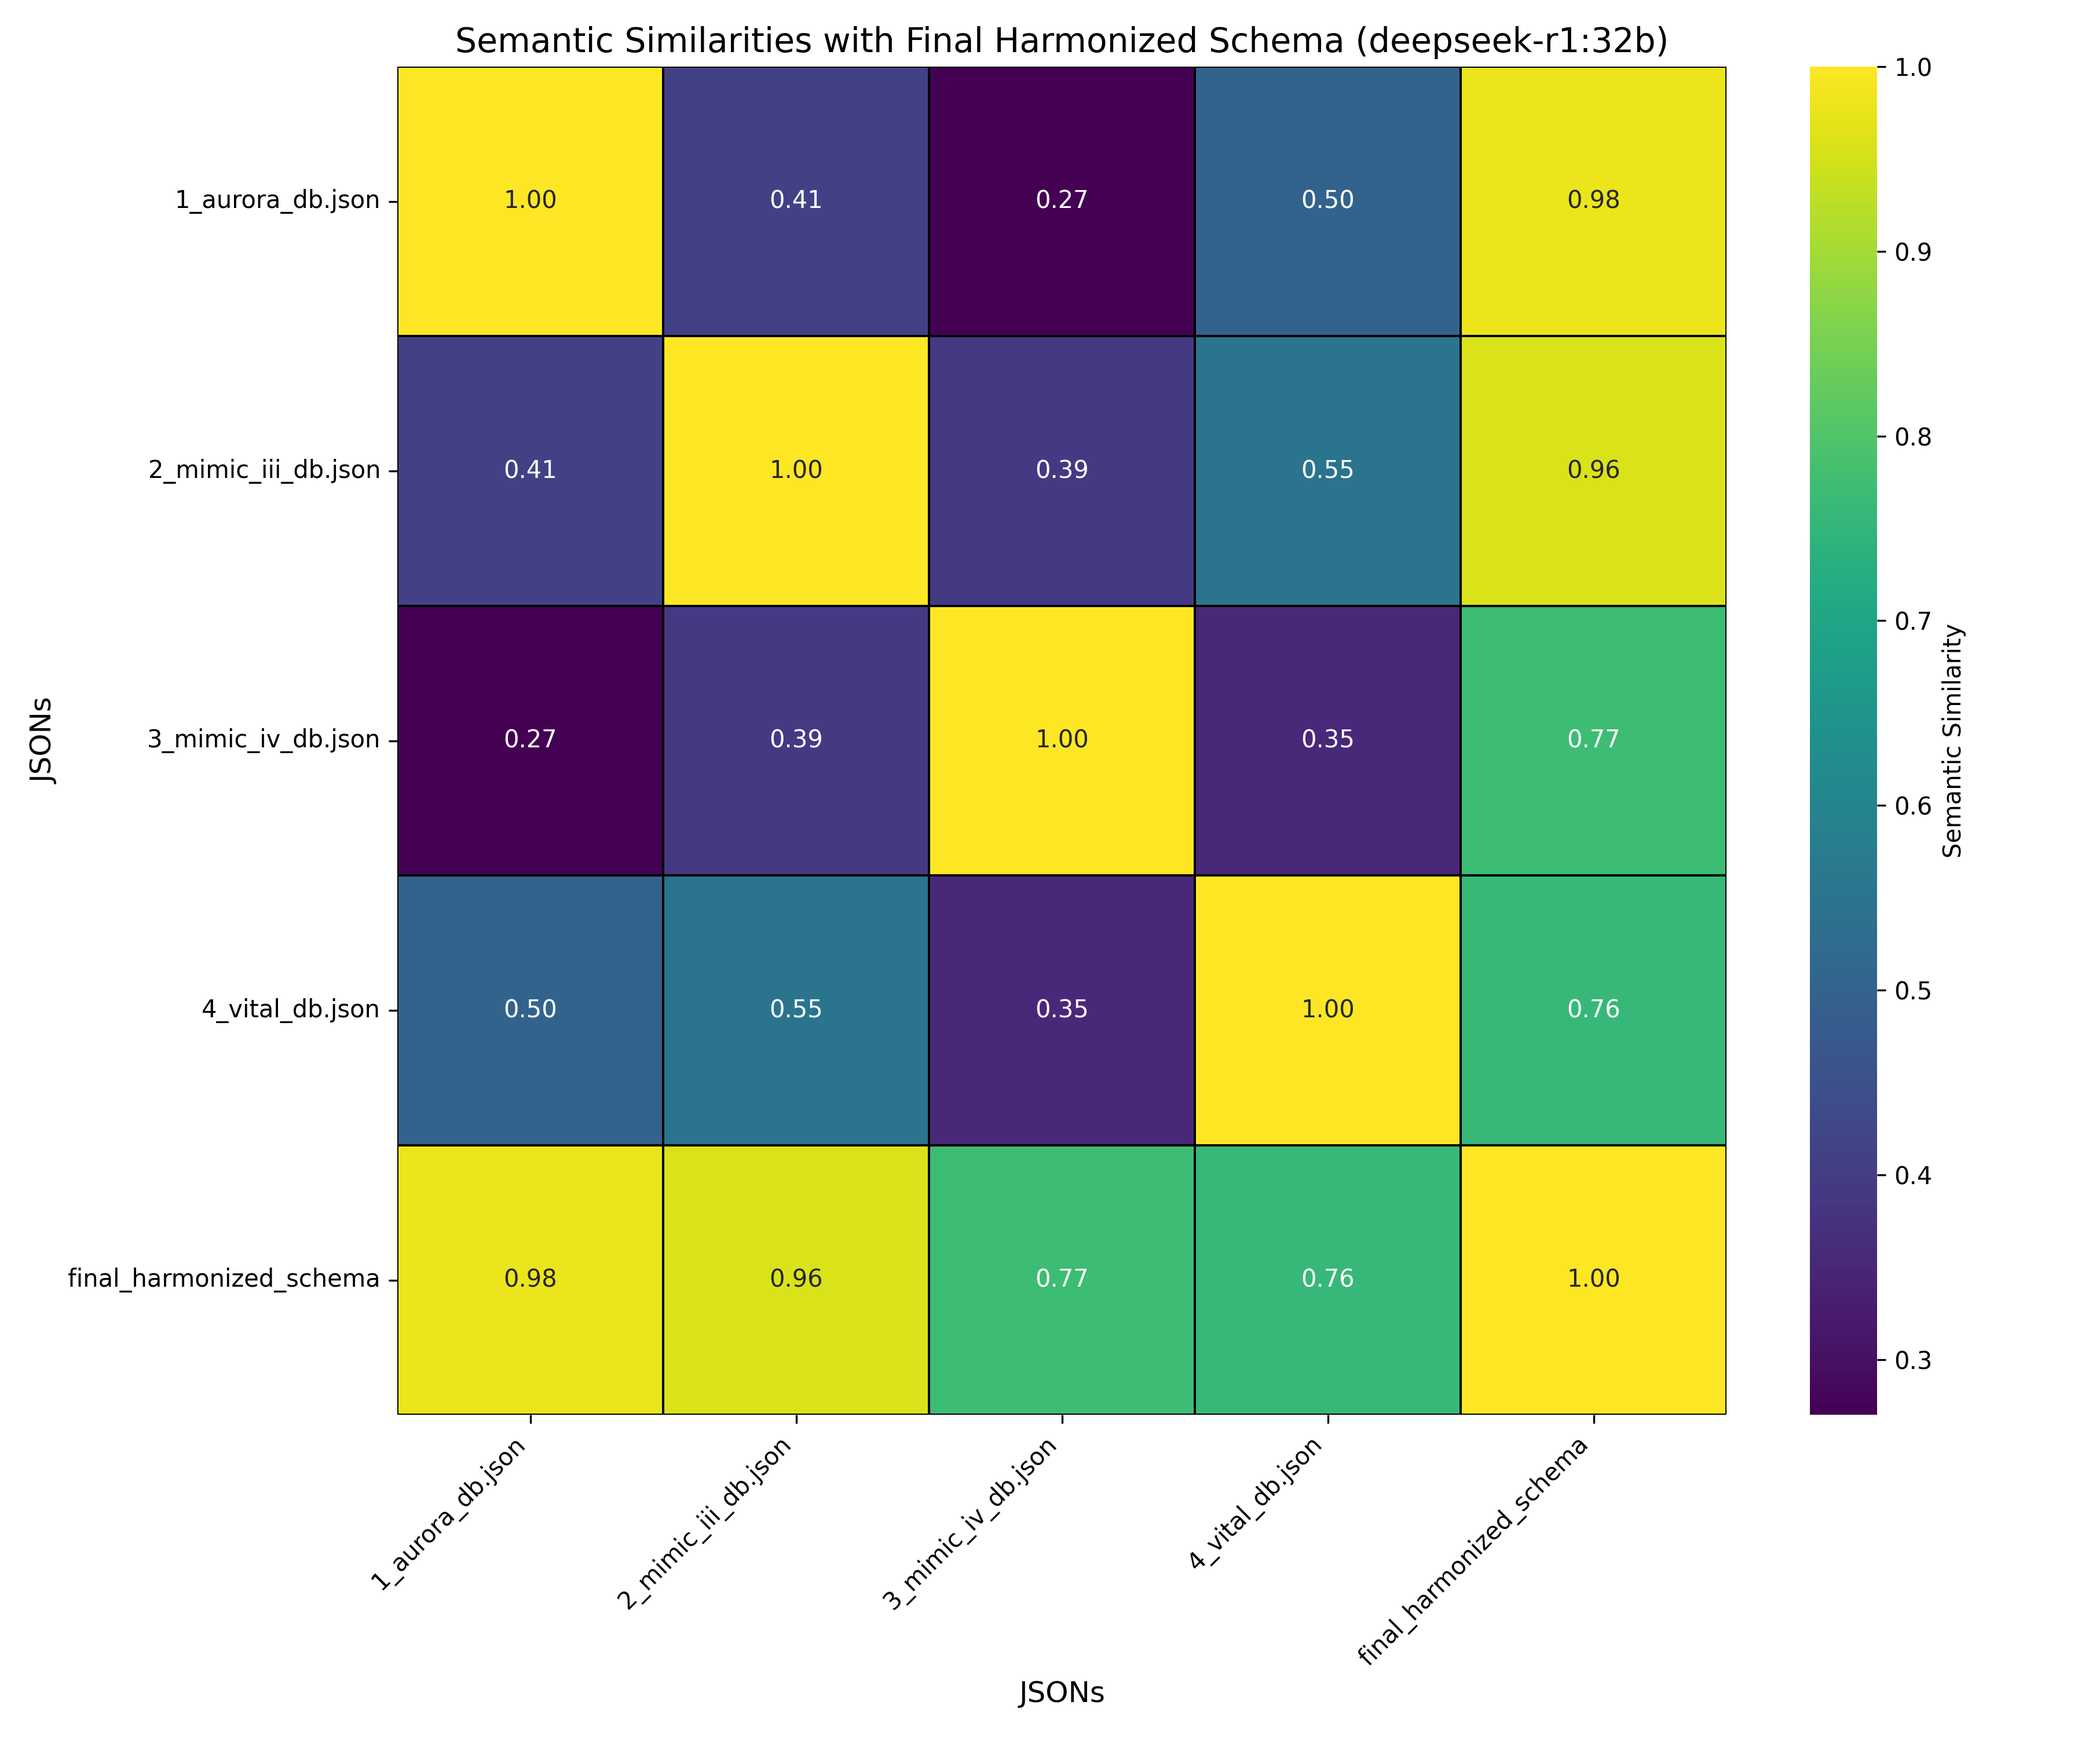
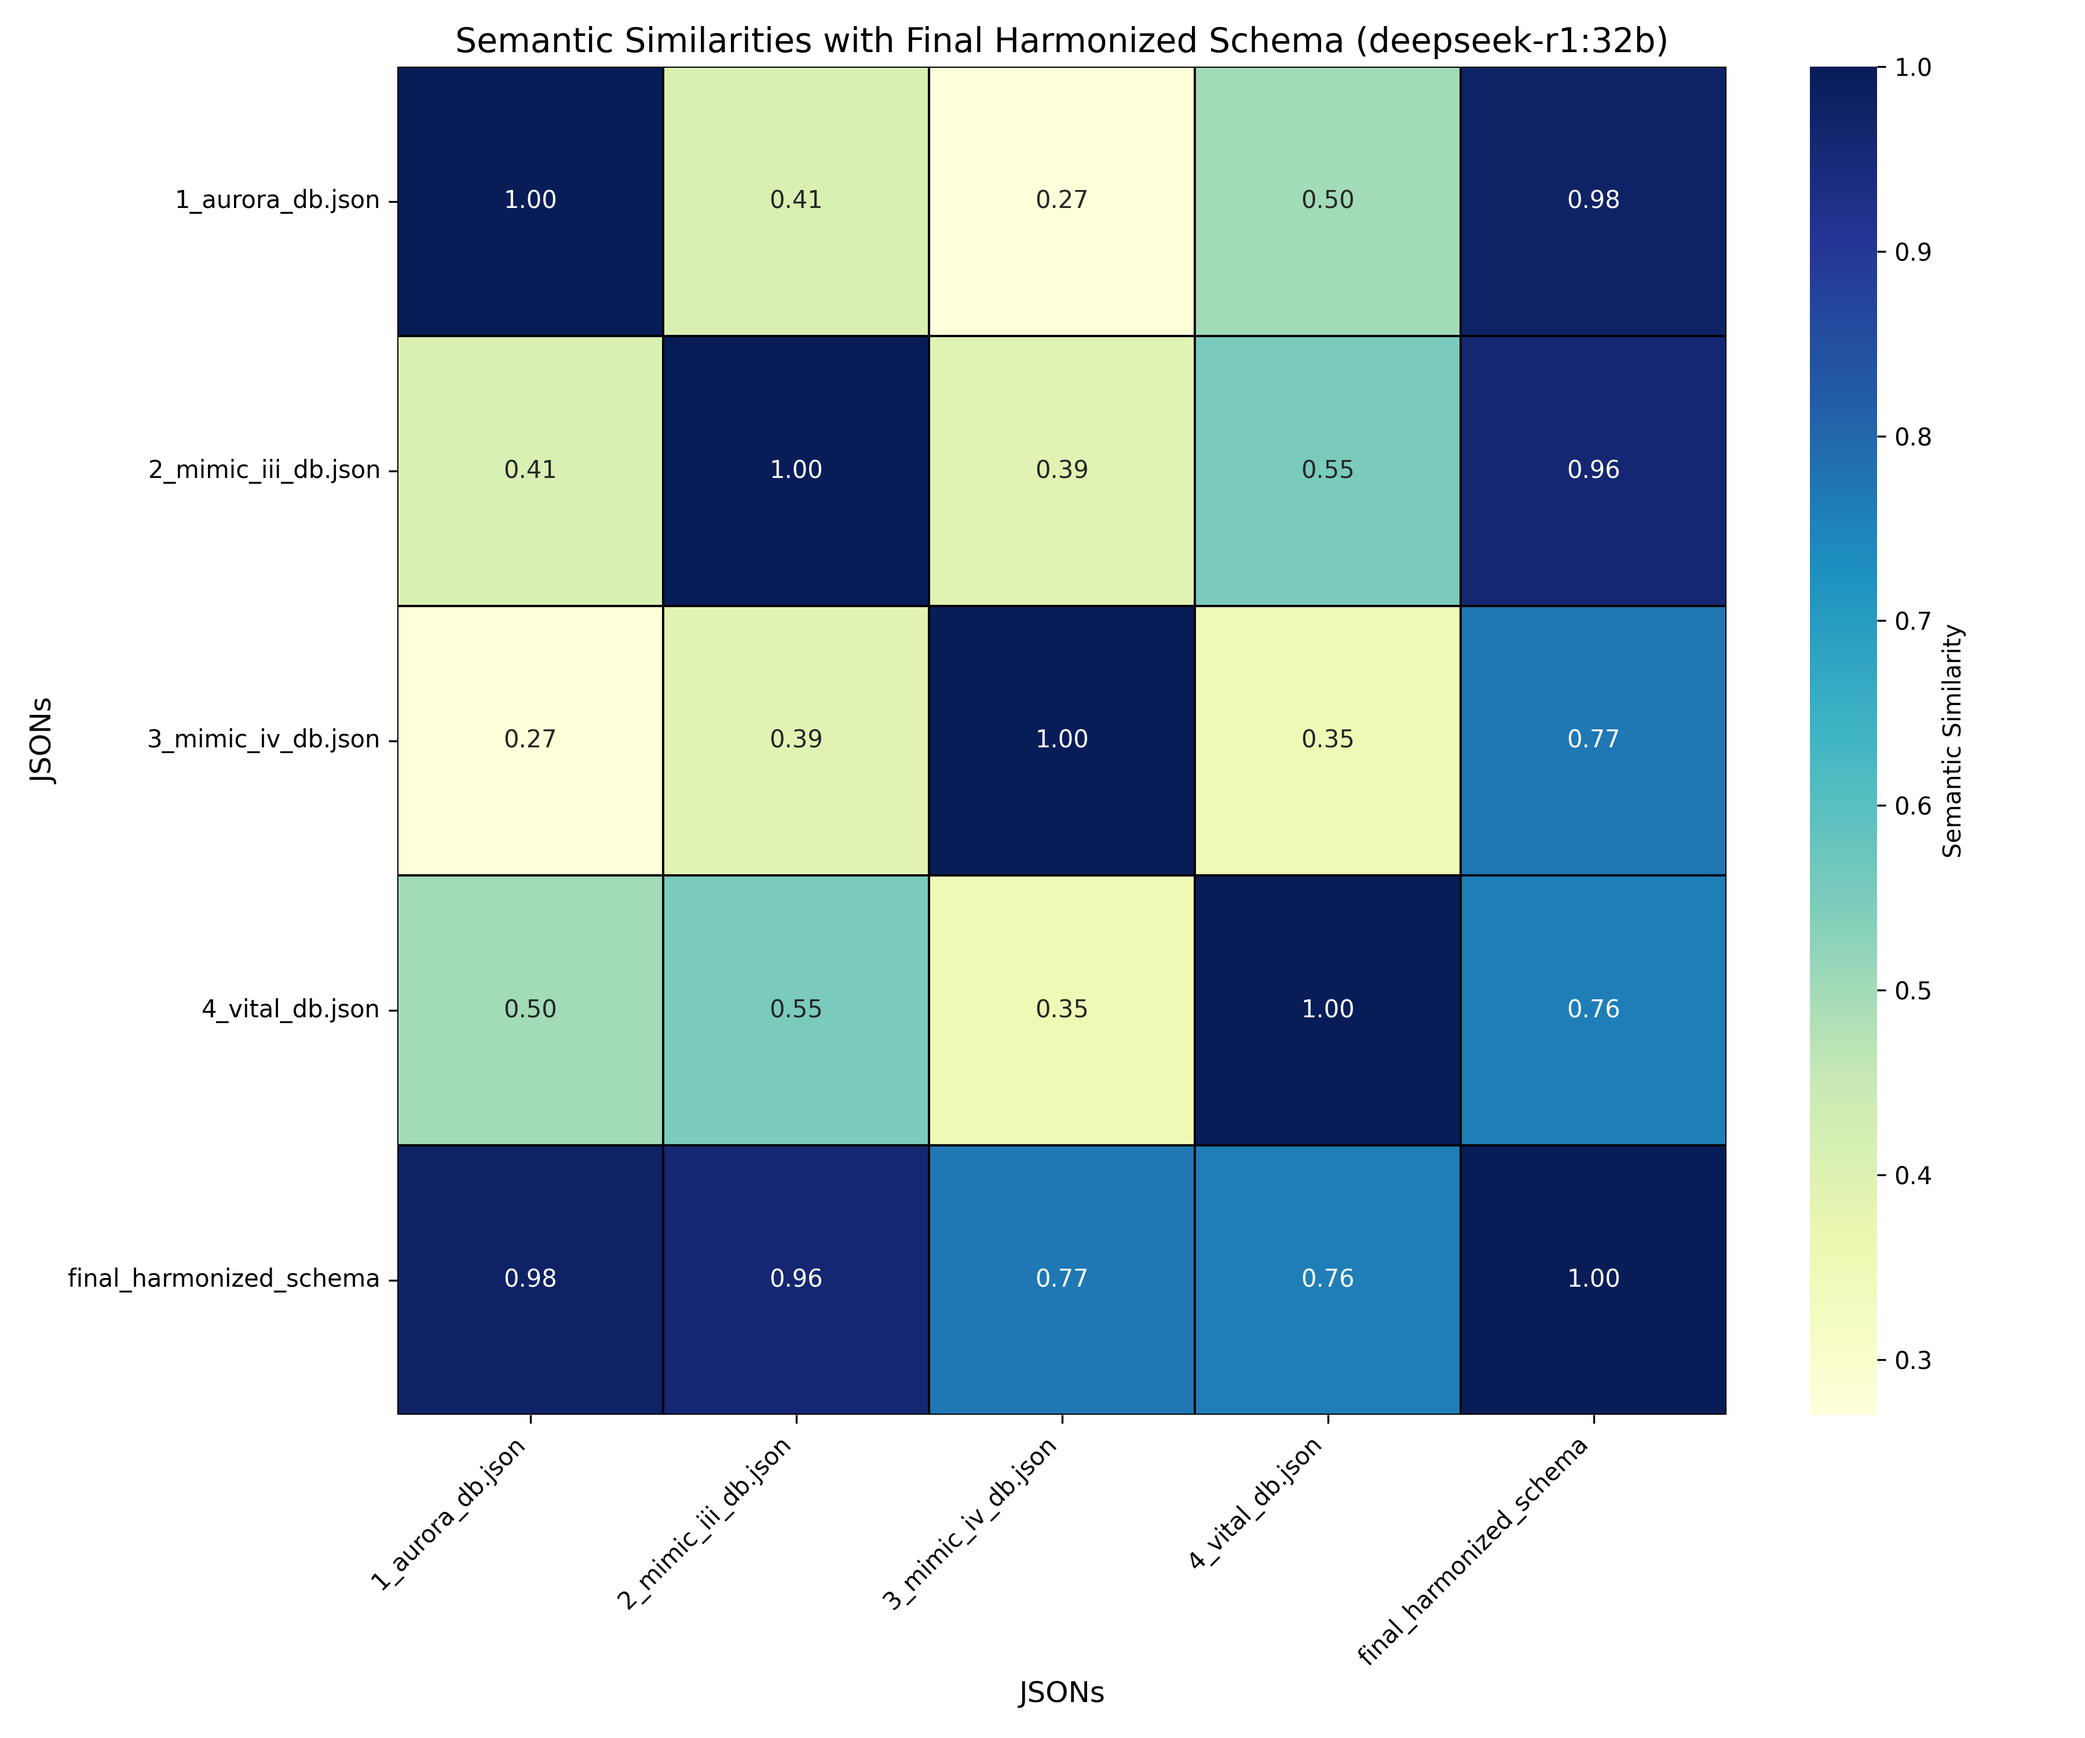
CHange plot color to YlGnBu

diff --git a/results/data_visualization.py b/results/data_visualization.py
@@ -214,7 +214,7 @@ def plot_similarity_heatmaps(csv_paths, similarity_type, save_path='./', output_
     sns.heatmap(
         base_similarity_matrix,
         annot=True,
-        cmap='viridis',
+        cmap='YlGnBu',
         fmt=".2f",    
         linewidths=.5,
         linecolor='black',
@@ -260,7 +260,7 @@ def plot_similarity_heatmaps(csv_paths, similarity_type, save_path='./', output_
             sns.heatmap(
                 llm_similarity_matrix,
                 annot=True,
-                cmap='viridis',
+                cmap='YlGnBu',
                 fmt=".2f",
                 linewidths=.5,
                 linecolor='black',
